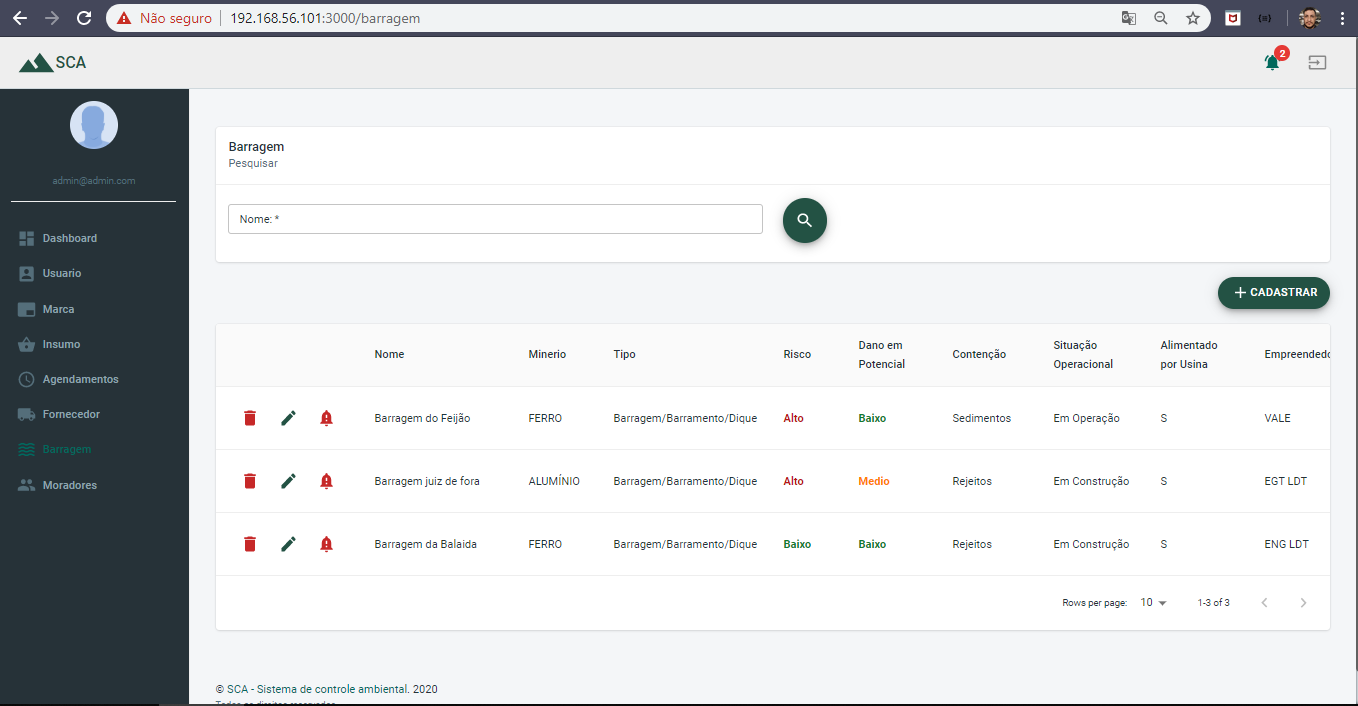
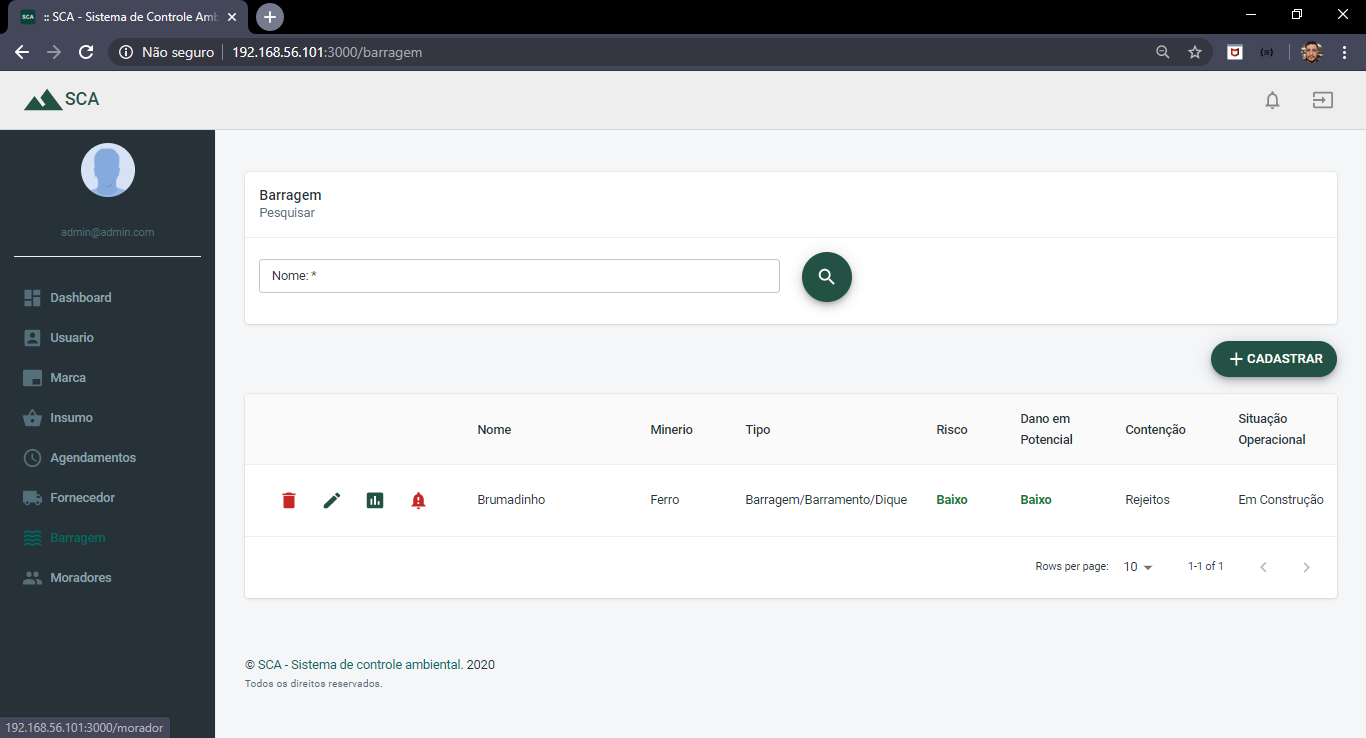
mobile matando um bub

diff --git a/sicamobile/src/views/Home/index.js b/sicamobile/src/views/Home/index.js
@@ -42,7 +42,7 @@ export default function Home() {
 
   useEffect(() => {
     const url = globalTypes.url.ENDPONIT_SOCKET_ALERT;
-    const socket = io(url, { forceNode: true });;
+    const socket = io(url, { forceNode: true });
     socket.on("barragem", barragem =>{
      console.log(barragem)
      ativeAlert()

diff --git a/sicamobile/src/common/constants/GlobalTypes.js b/sicamobile/src/common/constants/GlobalTypes.js
@@ -1,6 +1,6 @@
 const url = {
   BASE: 'http://192.168.0.9/api',
-  ENDPONIT_SOCKET_ALERT: 'http://192.168.0.7:3335',  
+  ENDPONIT_SOCKET_ALERT: 'http://192.168.0.9:3335',  
   LOGIN: '/auth/login',
   BARRAGEM_MORADOR: '/monitoramento/public/morador/',
   BARRAGEM_LIST: '/monitoramento/public/barragem/',
